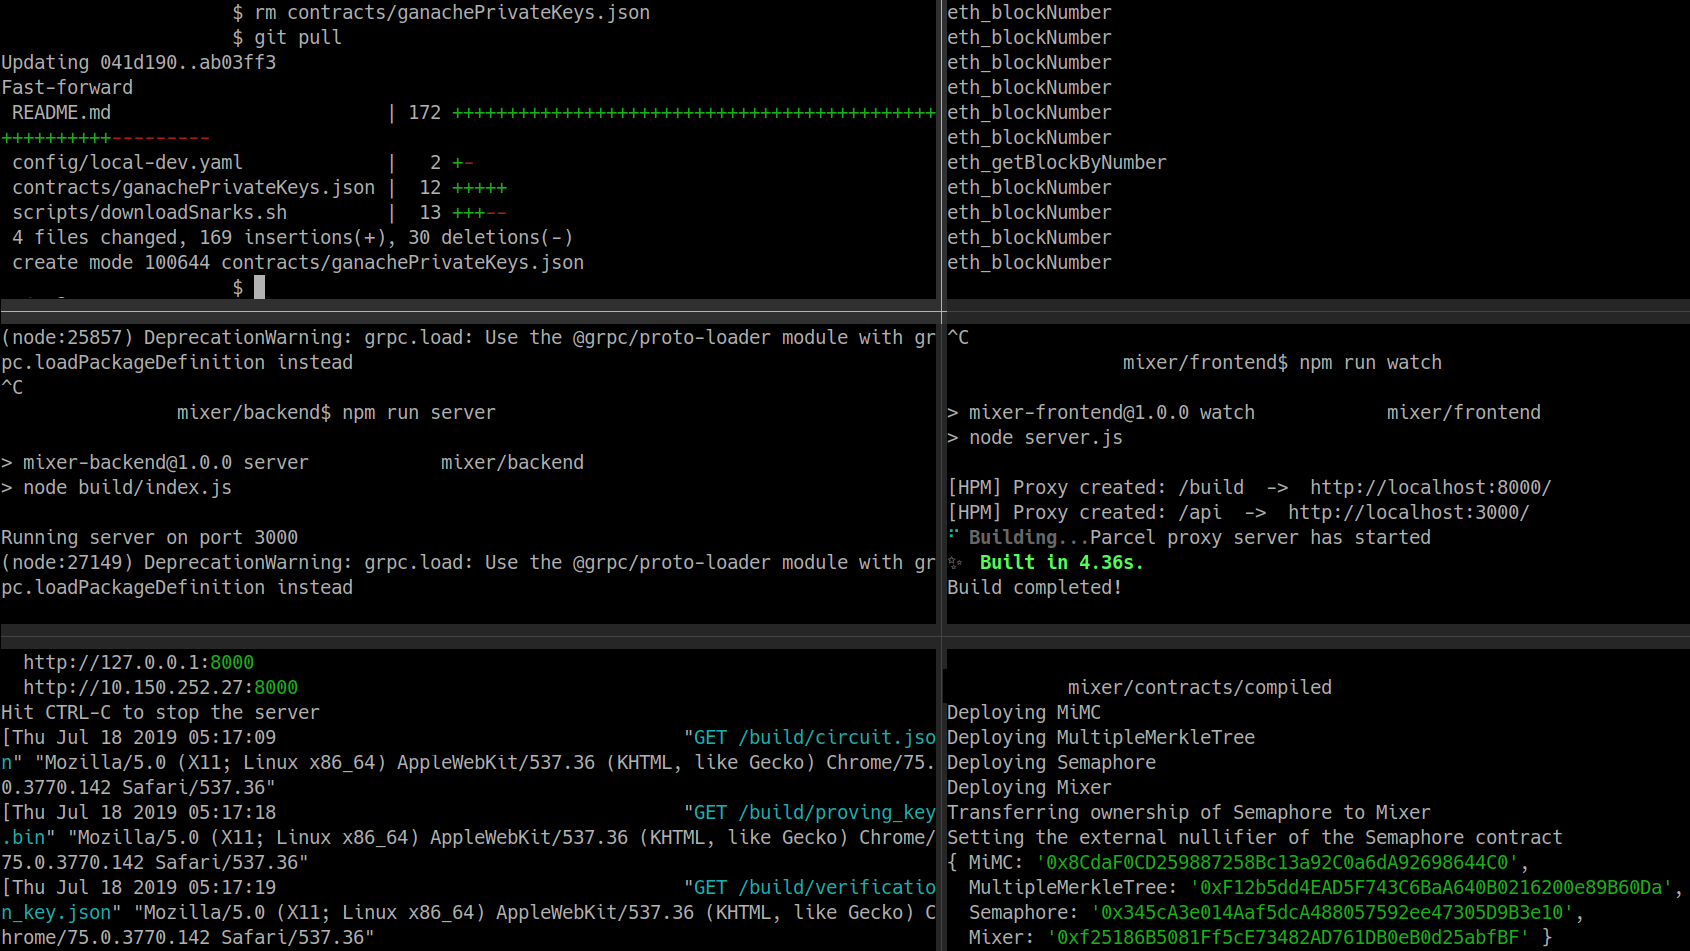
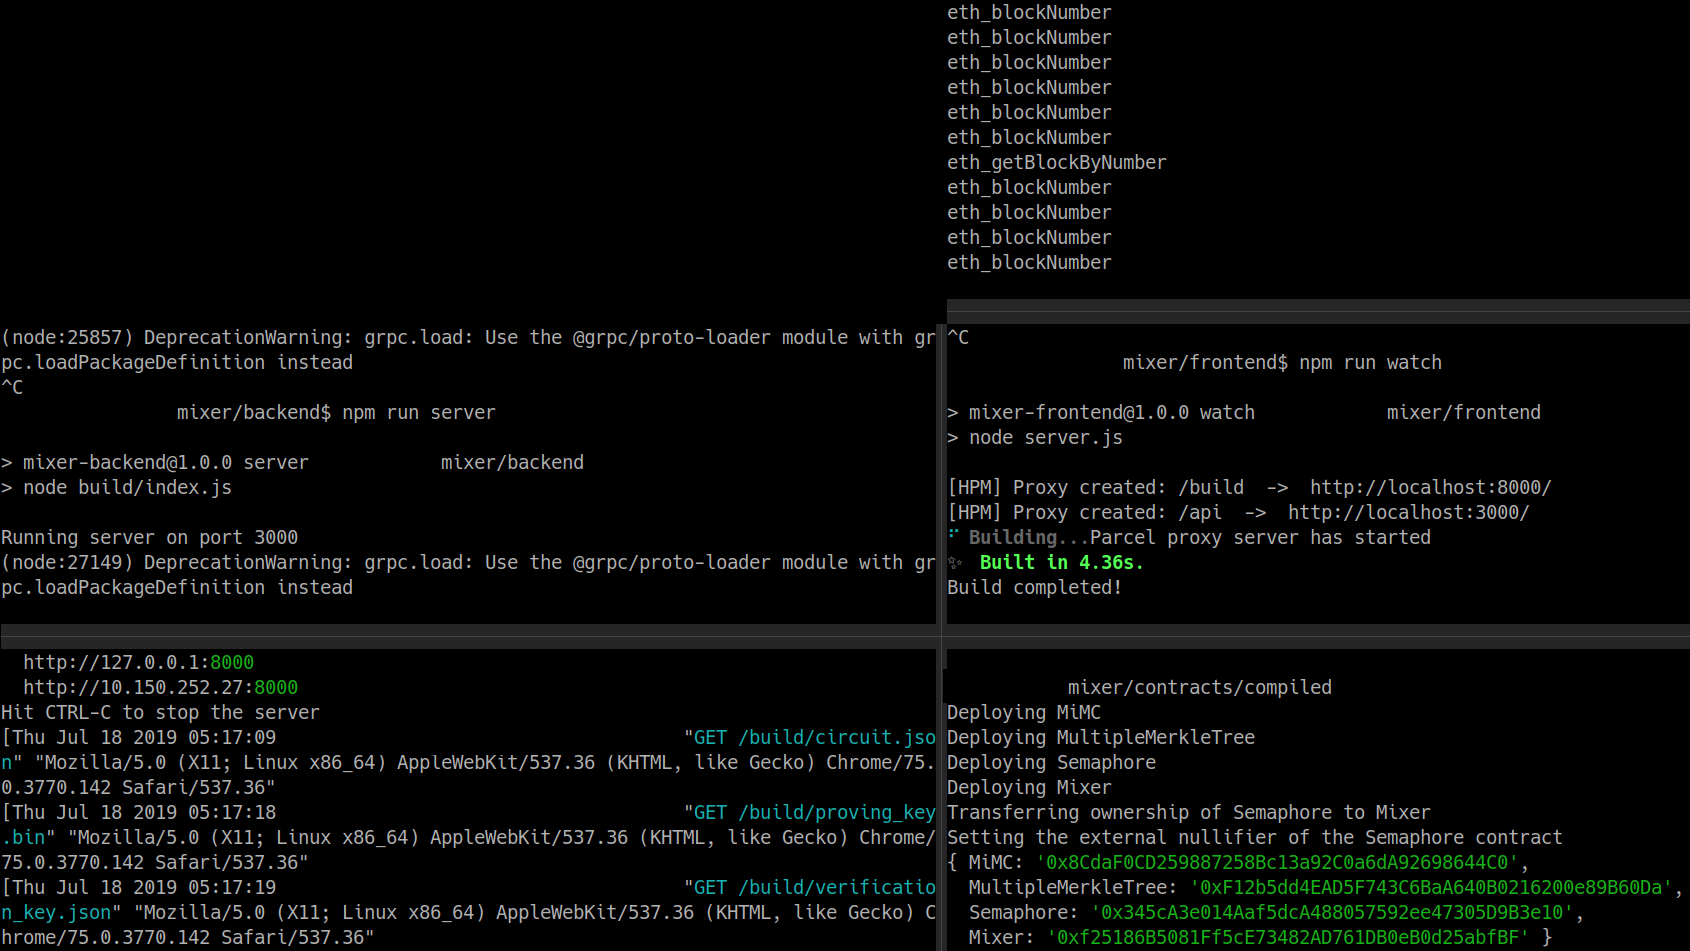
tweaked dev screen png and readme description

Changed region(s): [[0.0, 0.0, 0.5846, 0.3659]]

diff --git a/README.md b/README.md
@@ -197,6 +197,14 @@ If you use a terminal multiplexer like `tmux`, your screen might now look like t
 
 <img src="/docs/img/dev_screens.png" />
 
+Clockwise from top right:
+
+1. Ganache (`runGanache.sh`)
+2. Frontend (`npm run watch`)
+3. Deployed contracts (`npm run deploy`)
+4. HTTP server (`http-server`)
+5. Backend (`npm run server`)
+
 ## Testing
 
 ### Unit tests
